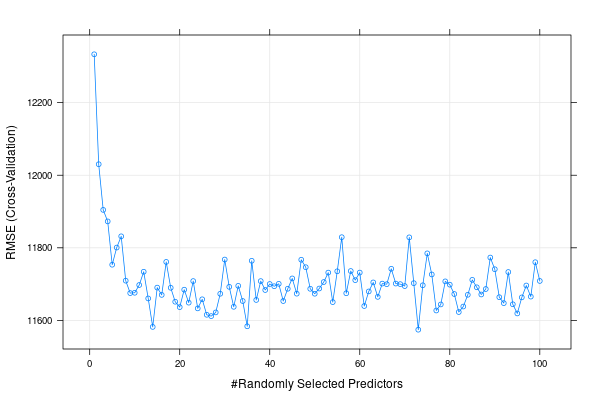
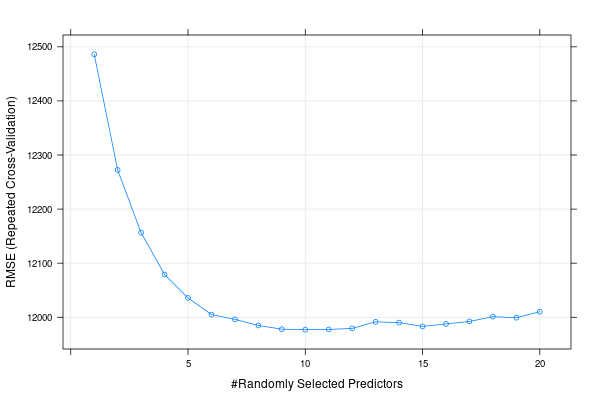
Update

diff --git a/README.md b/README.md
@@ -71,120 +71,40 @@ Random Forest hyperparameters:
 42 predictors
 
 No pre-processing
-Resampling: Cross-Validated (10 fold) 
-Summary of sample sizes: 40, 38, 40, 41, 39, 40, ... 
+Resampling: Cross-Validated (4 fold, repeated 100 times) 
+Summary of sample sizes: 36, 32, 32, 32, 32, 34, ... 
 Resampling results across tuning parameters:
 
   mtry  RMSE      Rsquared   MAE     
-    1   11369.28  0.5825408  8833.336
-    2   11187.04  0.5510065  8548.529
-    3   11214.11  0.5542960  8518.524
-    4   11280.64  0.5260950  8576.022
-    5   11454.10  0.5108149  8730.777
-    6   11326.53  0.4984254  8587.088
-    7   11390.08  0.4687324  8618.069
-    8   11372.20  0.4830655  8636.803
-    9   11367.76  0.4972114  8599.217
-   10   11454.36  0.4841415  8704.176
-   11   11487.35  0.4623855  8676.495
-   12   11489.73  0.4420062  8736.847
-   13   11431.55  0.5210702  8625.165
-   14   11455.65  0.4963291  8690.094
-   15   11423.21  0.4045614  8666.902
-   16   11491.77  0.4621505  8705.965
-   17   11404.79  0.4887218  8631.536
-   18   11498.22  0.4868000  8674.489
-   19   11512.13  0.4452073  8717.027
-   20   11489.83  0.5126499  8698.679
-   21   11523.79  0.4246943  8723.497
-   22   11571.69  0.4868538  8732.012
-   23   11655.51  0.4804124  8828.010
-   24   11624.01  0.4772529  8770.177
-   25   11458.02  0.4705264  8660.399
-   26   11543.06  0.4792360  8727.092
-   27   11577.93  0.3981259  8745.861
-   28   11502.48  0.4536830  8745.675
-   29   11653.73  0.4615854  8844.886
-   30   11582.39  0.4797681  8795.526
-   31   11612.45  0.4819642  8806.489
-   32   11557.24  0.4455155  8752.635
-   33   11601.80  0.4377148  8815.541
-   34   11574.44  0.4659301  8786.594
-   35   11509.75  0.4672181  8779.044
-   36   11557.63  0.4135373  8855.100
-   37   11625.95  0.4740759  8861.364
-   38   11609.74  0.4743826  8854.181
-   39   11638.52  0.4577677  8869.886
-   40   11708.63  0.4242821  8906.295
-   41   11635.22  0.3848762  8894.682
-   42   11553.82  0.4022087  8811.883
-   43   11686.58  0.4682168  8949.433
-   44   11636.14  0.4539872  8908.966
-   45   11641.17  0.4153014  8910.314
-   46   11559.50  0.4265850  8811.665
-   47   11611.56  0.3723212  8888.233
-   48   11657.92  0.4586258  8919.970
-   49   11601.11  0.4747952  8921.727
-   50   11692.68  0.4246420  8870.220
-   51   11722.24  0.4615710  8965.082
-   52   11595.01  0.4182075  8855.852
-   53   11651.09  0.4599959  8917.252
-   54   11698.82  0.4673639  8928.388
-   55   11656.28  0.4545950  8873.276
-   56   11653.82  0.4743123  8927.030
-   57   11631.57  0.4095302  8871.065
-   58   11531.90  0.4754550  8811.641
-   59   11596.96  0.4545041  8874.456
-   60   11567.83  0.4224442  8883.209
-   61   11642.80  0.3879275  8844.138
-   62   11548.03  0.4693166  8790.038
-   63   11628.16  0.4057807  8897.744
-   64   11685.79  0.4621325  8909.707
-   65   11721.85  0.3640896  8969.716
-   66   11666.48  0.3650941  8901.387
-   67   11654.76  0.4164440  8864.363
-   68   11626.54  0.4664820  8913.165
-   69   11708.78  0.4026191  8917.122
-   70   11474.42  0.4842566  8739.101
-   71   11654.67  0.4660331  8914.949
-   72   11624.39  0.3651094  8885.744
-   73   11596.51  0.4282103  8870.106
-   74   11666.24  0.4602137  8948.716
-   75   11674.80  0.4529241  8944.255
-   76   11656.06  0.4528167  8978.879
-   77   11672.22  0.4538665  8905.883
-   78   11596.49  0.4602130  8847.518
-   79   11586.99  0.4199313  8852.786
-   80   11618.05  0.4474265  8896.157
-   81   11620.57  0.3837569  8898.779
-   82   11631.53  0.4634065  8870.268
-   83   11660.31  0.4644471  8944.814
-   84   11579.20  0.4679330  8810.191
-   85   11687.77  0.3844401  8939.302
-   86   11653.16  0.4742313  8890.548
-   87   11750.52  0.4738149  8952.295
-   88   11624.19  0.4559587  8903.530
-   89   11737.18  0.3699152  8986.237
-   90   11500.70  0.4629959  8775.226
-   91   11654.46  0.4041018  8866.241
-   92   11677.77  0.3762777  8902.974
-   93   11628.18  0.4515944  8869.444
-   94   11506.91  0.4797659  8755.749
-   95   11728.14  0.4670378  8997.887
-   96   11669.60  0.4421655  8916.967
-   97   11454.02  0.4404753  8750.353
-   98   11537.45  0.4305736  8862.995
-   99   11649.92  0.4395591  8882.417
-  100   11643.44  0.4552979  8893.972
+   1    11676.83  0.2693490  8890.271
+   2    11610.96  0.2621742  8567.306
+   3    11689.41  0.2532660  8545.084
+   4    11774.60  0.2456405  8566.194
+   5    11829.79  0.2412606  8588.528
+   6    11875.31  0.2389845  8612.784
+   7    11894.02  0.2387554  8619.813
+   8    11929.05  0.2371073  8638.596
+   9    11955.82  0.2346754  8646.653
+  10    11976.27  0.2335992  8662.602
+  11    11998.81  0.2320998  8673.819
+  12    12021.09  0.2316459  8690.126
+  13    12034.43  0.2305717  8695.754
+  14    12043.21  0.2298851  8710.435
+  15    12057.85  0.2295032  8714.386
+  16    12071.08  0.2287177  8724.016
+  17    12075.13  0.2281054  8723.732
+  18    12083.63  0.2279444  8728.356
+  19    12095.98  0.2277961  8746.239
+  20    12095.40  0.2269736  8743.080
 
 RMSE was used to select the optimal model using the smallest value.
 The final value used for the model was mtry = 2.
 
 predictions_rf
        2        6        7       15       16       23       24       27       31       35 
-37616.31 50451.14 22783.34 48717.02 47673.42 32221.37 31292.14 48348.13 33664.34 37137.60 
+37590.76 50693.10 23392.90 48466.79 47515.99 32318.44 31222.99 48384.71 33659.60 37503.35 
       38       39 
-51574.15 44328.54
+51162.52 44316.09 
 ```
 ![RMS vs Ramdom Predictors Random Forest model](https://github.com/diegoalarc/Innovation_laboratory_EAGLE/blob/main/Plots/RMSE_vs_Ramdom_Predictors_rforest.png?raw=true "RMS vs Ramdom Predictors Random Forest model")
 
@@ -195,118 +115,38 @@ Conditional Random Forest hyperparameters:
 42 predictors
 
 No pre-processing
-Resampling: Cross-Validated (10 fold) 
-Summary of sample sizes: 40, 38, 40, 41, 39, 40, ... 
+Resampling: Cross-Validated (4 fold, repeated 100 times) 
+Summary of sample sizes: 36, 32, 32, 32, 32, 34, ... 
 Resampling results across tuning parameters:
 
   mtry  RMSE      Rsquared   MAE      
-    1   12333.24  0.3853406  10111.060
-    2   12030.29  0.5129408   9787.982
-    3   11904.45  0.4989630   9580.630
-    4   11872.74  0.4241099   9521.488
-    5   11753.34  0.4691263   9477.053
-    6   11800.63  0.4938131   9492.160
-    7   11831.63  0.4793971   9506.669
-    8   11709.38  0.4603914   9338.788
-    9   11675.17  0.5167871   9351.079
-   10   11676.07  0.5036210   9315.453
-   11   11697.41  0.4597627   9299.707
-   12   11733.96  0.4928548   9381.092
-   13   11660.43  0.4896101   9253.773
-   14   11581.98  0.5010718   9213.499
-   15   11690.30  0.5081050   9308.830
-   16   11670.20  0.4960640   9254.243
-   17   11761.05  0.4614463   9337.341
-   18   11689.77  0.5230617   9287.445
-   19   11651.37  0.5055056   9237.189
-   20   11636.51  0.5077867   9298.295
-   21   11684.60  0.4919418   9334.129
-   22   11648.78  0.5052838   9276.429
-   23   11708.27  0.4878141   9305.966
-   24   11633.00  0.4897809   9255.390
-   25   11658.06  0.5091878   9263.946
-   26   11615.39  0.5141192   9193.376
-   27   11611.76  0.5009969   9201.247
-   28   11621.92  0.4970718   9234.868
-   29   11673.25  0.4971165   9248.417
-   30   11767.66  0.4856989   9345.296
-   31   11692.40  0.4785830   9225.647
-   32   11637.38  0.5048787   9245.169
-   33   11695.11  0.4867293   9318.479
-   34   11653.33  0.5034803   9250.589
-   35   11583.65  0.5239194   9196.512
-   36   11764.16  0.4683458   9330.326
-   37   11656.26  0.4750987   9218.673
-   38   11708.21  0.4859665   9285.849
-   39   11683.69  0.4845550   9260.369
-   40   11700.15  0.4999535   9248.788
-   41   11694.07  0.5018198   9285.181
-   42   11700.72  0.4956080   9259.620
-   43   11653.32  0.4837239   9215.420
-   44   11687.09  0.4850622   9209.130
-   45   11715.59  0.4883332   9278.797
-   46   11673.57  0.4896086   9241.786
-   47   11767.08  0.4722506   9318.222
-   48   11746.48  0.4660950   9306.346
-   49   11687.00  0.4895300   9251.456
-   50   11673.40  0.5051879   9260.188
-   51   11687.76  0.5011283   9229.653
-   52   11705.64  0.4989726   9275.069
-   53   11731.64  0.4654349   9257.461
-   54   11650.37  0.4972405   9236.948
-   55   11735.22  0.4817002   9278.994
-   56   11829.21  0.4727345   9351.931
-   57   11674.67  0.4949034   9249.404
-   58   11735.97  0.4575142   9264.450
-   59   11710.86  0.4902270   9260.930
-   60   11731.73  0.4772106   9321.768
-   61   11639.57  0.5035347   9219.993
-   62   11679.72  0.4911197   9263.066
-   63   11704.58  0.4819921   9237.230
-   64   11664.74  0.4848711   9279.650
-   65   11701.36  0.4925179   9320.576
-   66   11699.67  0.4640449   9286.086
-   67   11742.16  0.4749673   9299.569
-   68   11701.38  0.4908444   9239.432
-   69   11699.83  0.4689559   9284.701
-   70   11694.55  0.4822459   9278.303
-   71   11828.78  0.4605363   9398.057
-   72   11702.53  0.4733471   9267.024
-   73   11574.26  0.4950811   9160.008
-   74   11696.70  0.5013582   9314.596
-   75   11784.63  0.4652983   9363.763
-   76   11726.53  0.5028747   9334.742
-   77   11627.18  0.5160994   9206.861
-   78   11643.85  0.4926419   9213.662
-   79   11707.46  0.4888041   9282.897
-   80   11698.36  0.4750101   9276.367
-   81   11672.63  0.4818484   9218.622
-   82   11622.99  0.4867739   9223.885
-   83   11638.13  0.5055147   9218.348
-   84   11670.46  0.4922934   9235.342
-   85   11711.65  0.5025058   9258.032
-   86   11691.13  0.4992768   9306.685
-   87   11671.32  0.4941279   9258.745
-   88   11686.36  0.4920082   9246.084
-   89   11773.15  0.4512359   9353.516
-   90   11740.93  0.4817501   9273.856
-   91   11663.84  0.4881041   9230.773
-   92   11647.48  0.4871584   9194.183
-   93   11733.20  0.4793747   9273.111
-   94   11644.36  0.4901615   9207.097
-   95   11619.07  0.5045112   9181.930
-   96   11663.32  0.4874072   9245.649
-   97   11696.10  0.4769912   9279.328
-   98   11665.48  0.5131101   9206.781
-   99   11760.26  0.4669882   9308.116
-  100   11708.61  0.4789429   9257.197
+   1    12486.20  0.2296676  10084.008
+   2    12272.32  0.2353181   9880.017
+   3    12156.38  0.2325102   9744.929
+   4    12079.01  0.2327008   9648.538
+   5    12035.74  0.2313972   9580.441
+   6    12004.96  0.2311830   9535.947
+   7    11996.16  0.2289766   9512.078
+   8    11984.79  0.2288810   9487.270
+   9    11978.02  0.2284915   9465.462
+  10    11977.00  0.2275237   9450.583
+  11    11977.48  0.2262284   9439.691
+  12    11979.42  0.2258908   9432.252
+  13    11991.62  0.2239698   9432.875
+  14    11990.17  0.2226403   9419.119
+  15    11983.13  0.2249086   9407.877
+  16    11987.69  0.2238611   9403.176
+  17    11992.29  0.2229104   9401.631
+  18    12001.19  0.2214549   9396.781
+  19    11999.20  0.2215391   9385.345
+  20    12010.37  0.2202692   9390.855
 
 RMSE was used to select the optimal model using the smallest value.
-The final value used for the model was mtry = 73.
+The final value used for the model was mtry = 10.
 
-predictions_crf
- [1] 36882.24 48567.60 32606.83 49857.94 49750.02 36080.43 36333.06 40673.48 36623.21 36909.67
-[11] 49896.75 41456.92
+redictions_crf
+ [1] 39592.88 46064.02 31695.47 48051.45 47635.13 34848.37 34712.48 42283.37 35127.84 36431.38
+[11] 48565.71 44912.85
 ```
 ![RMS vs Ramdom Predictors Conditional Random Forest model](https://github.com/diegoalarc/Innovation_laboratory_EAGLE/blob/main/Plots/RMSE_vs_Ramdom_Predictors_cforest.png?raw=true "RMS vs Ramdom Predictors Conditional Random Forest model")
 
@@ -326,21 +166,21 @@ These are the values with the best performance, after the auto-selection of the 
 
 | `R2` | `RMSE Kg` | `MAE Kg` |
 | :-------: | :------: | :-----: |
-| 0.9434978 | 3039.821 | 2328.789 |
+| 0.9490709 | 3037.2625979 | 2430.5169700 |
 
 |`RMSE without dimension`|
 | :--------------------: |
-| 0.07480269 |
+| 0.07473974 |
 
 - Conditional RandomForest model:
 
 | `R2` | `RMSE Kg` | `MAE Kg` |
 | :-------: | :------: | :-----: |
-| 0.7291815 | 6439.277 | 5277.034 |
+| 0.8061893 | 6121.8310575 | 4740.1615328 |
 
 |`RMSE without dimension`|
 | :--------------------: |
-| 0.1584551 |
+| 0.1506436 |
 
 ### Model comparison
 
